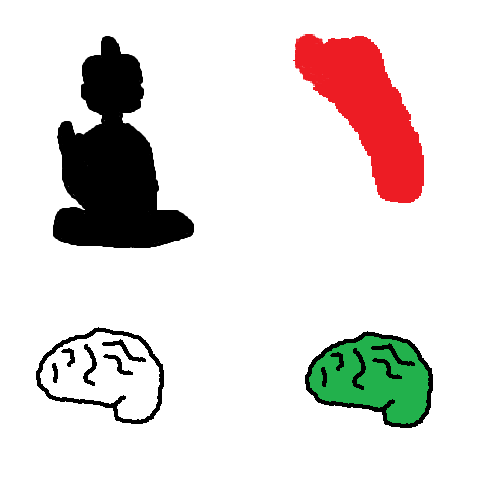
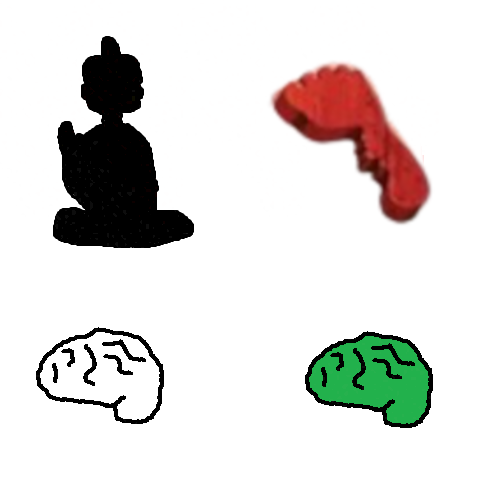
merge and new token visuals

Changed region(s): [[0.54, 0.06, 0.87, 0.45]]

diff --git a/Project/core/src/main/java/View/buildingBlocks/VisualCell.java b/Project/core/src/main/java/View/buildingBlocks/VisualCell.java
@@ -80,7 +80,7 @@ public class VisualCell extends Actor {
         // These are currently magic numbers and pretty ugly. Find better way of doing
         // this
         // this.temple = new TextureRegion(tokensImg, 0, 0, 250, 250);
-        this.footstep = new TextureRegion(stepImg, 170, 360, 70, 70);
+        this.footstep = new TextureRegion(tokensImg, 250, 0, 250, 250);
         this.brains = new TextureRegion[2];
         this.brains[0] = new TextureRegion(tokensImg, 0, 250, 250, 250);
         this.brains[1] = new TextureRegion(tokensImg, 250, 250, 250, 250);
@@ -149,12 +149,11 @@ public class VisualCell extends Actor {
         updateTokens();
 
         int xVal = 0;
-        int size = tokens.size();
 
         for (TextureRegion token : tokens) {
-            float xPos = getX() + getWidth() / size * xVal;
-            batch.draw(token, xPos, getY() + getHeight() / 2, getOriginX(), getOriginY(),
-                    getWidth() / size, getHeight() / 2, getScaleX(), getScaleY(), getRotation());
+            float xPos = getX() + (getWidth() - (token.getRegionWidth() / 3f)) + token.getRegionWidth() / 8 * xVal;
+            batch.draw(token, xPos, getY() + getHeight() / 3, getOriginX(), getOriginY(),
+                    token.getRegionWidth() / 3, token.getRegionWidth() / 3, getScaleX(), getScaleY(), getRotation());
             xVal++;
         }
     }
